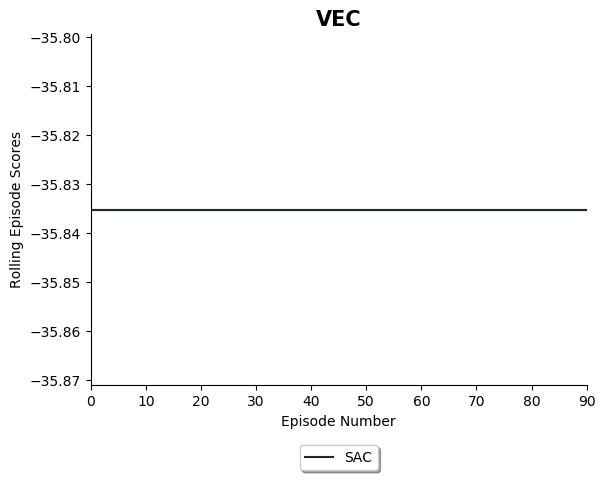
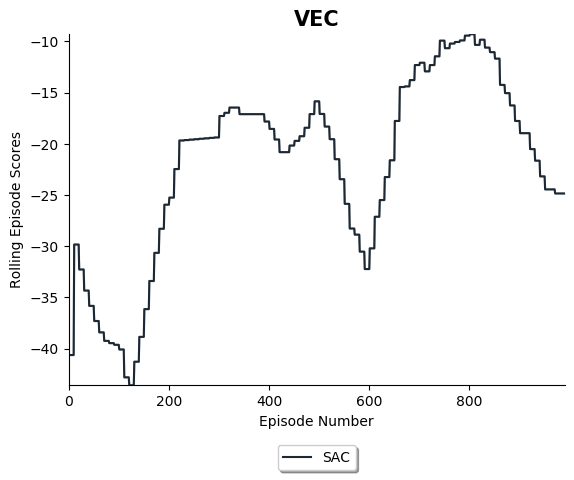
...

diff --git a/environments/VEC_Environment.py b/environments/VEC_Environment.py
@@ -26,10 +26,10 @@ class VEC_Environment(gym.Env):
         self.snr_ref = 1 # reference SNR, which is used to compute rate by B*log2(1+snr_ref*d^-a) 
         self.snr_alpha = 2
         self.vehicle_F = range(2,7)  #GHz
-        self.max_datasize = 2 #MBytes
-        self.max_compsize = 0.2 #GHz
-        self.max_tau = 5 # s
-        self.price = 0.1
+        self.max_datasize = 1 #MBytes
+        self.max_compsize = 0.1 #GHz
+        self.max_tau = 10 # s
+        self.price = 0
         self.max_price = np.log(1+self.max_tau)
 
         self.action_space = spaces.Discrete(self.num_vehicles*100)
@@ -65,6 +65,9 @@ class VEC_Environment(gym.Env):
         self.next_state = None
         self.reward = None
         self.done = False
+        for v in self.vehicles:
+            v["freq"] = v["freq_init"]
+            v["freq_remain"] = max(0, v["freq_init"] - sum([i["compute_size"]/i["max_t"] for i in v["tasks"]]))
         task = self.tasks[0]
         self.s = {
             "snr":np.array([min(self.snr_ref*(abs(v["position"])/200)**-2, 1) for v in self.vehicles]),
@@ -97,20 +100,20 @@ class VEC_Environment(gym.Env):
             return reward
         alpha_max = v["freq_remain"]/v["freq"]
         u_max = sum([np.log(1+alpha_max*i["max_t"]) for i in v["tasks"]])
-        alpha = fsolve(lambda a:sum([np.log(1+a*i["max_t"]) for i in v["tasks"]])-u_max+ cost -self.price*task[1],0.1)[0]
-        if alpha <=0:
-            return reward
+        alpha = fsolve(lambda a:sum([np.log(1+a*i["max_t"]) for i in v["tasks"]])-u_max+ cost -self.price*task[1], 0)[0]
+        alpha = min(max(0,alpha), alpha_max)
         freq_alloc = v["freq"]-(v["freq"]-v["freq_remain"])/(1-alpha)
+        # print(alpha_max,alpha,freq_alloc)
         if freq_alloc <= 0:
+            print("freq_alloc<=0",freq_alloc,v["freq"],v["freq_remain"],alpha)
             return reward
         snr = self.s["snr"][v_id]
         t_total = task[0]/(self.bandwidth*np.log2(1+snr)) + task[1]/freq_alloc
-        # print("computing time=",task[1]/freq_alloc,"freq_min=",task[1]/task[2])
+        # print("computing time=",task[1]/freq_alloc,"freq_min=",task[1]/task[2], "freq_alloc=",freq_alloc, "alpha=",alpha)
         if t_total <= task[2]:
             reward = np.log(1+task[2]-t_total) - cost
             v["freq"] -= freq_alloc
-            v["freq_remain"] = v["freq"] - sum([i["compute_size"]/i["max_t"] for i in v["tasks"]])
-            v["freq_remain"] = v["freq_remain"] if v["freq_remain"]>0 else 0
+            v["freq_remain"] = max(0, v["freq"] - sum([i["compute_size"]/i["max_t"] for i in v["tasks"]]))
             # print("t_total=",t_total,"reward=",reward)
         return reward
 
@@ -142,17 +145,15 @@ class VEC_Environment(gym.Env):
     def generate_local_tasks(self):
         for v in self.vehicles:
             v["tasks"] = []
-            for _ in range(random.randint(0,self.max_local_task)):
+            for _ in range(random.randint(1,self.max_local_task)):
                 data_size = random.uniform(self.max_datasize/5,self.max_datasize)
                 compute_size = random.uniform(self.max_compsize/5,self.max_compsize)
-                max_t = random.randint(1, self.max_tau)
+                max_t = random.randint(self.max_tau//2, self.max_tau)
                 v["tasks"].append({"data_size":data_size, "compute_size":compute_size, "max_t":max_t})
-            v["freq_remain"] = v["freq_init"] - sum([i["compute_size"]/i["max_t"] for i in v["tasks"]])
-            v["freq_remain"] = v["freq_remain"] if v["freq_remain"]>0 else 0
     
     def generate_offload_tasks(self):
         for _ in range(self.task_num_per_episode):
             data_size = random.uniform(self.max_datasize/5,self.max_datasize)
             compute_size = random.uniform(self.max_compsize/5,self.max_compsize)
-            max_t = random.randint(1, self.max_tau)
+            max_t = random.randint(self.max_tau//2, self.max_tau)
             self.tasks.append({"data_size":data_size, "compute_size":compute_size, "max_t":max_t})

diff --git a/VEC.py b/VEC.py
@@ -15,7 +15,7 @@ config.seed = 1
 
 config.environment = VEC_Environment(num_vehicles=50, task_num=20)
 
-config.num_episodes_to_run = 100
+config.num_episodes_to_run = 1000
 config.file_to_save_data_results = "results/data_and_graphs/VEC.pkl"
 config.file_to_save_results_graph = "results/data_and_graphs/VEC.png"
 config.show_solution_score = False

diff --git a/results/Mountain_Car.py b/results/Mountain_Car.py
@@ -25,7 +25,7 @@ config.visualise_individual_results = False
 config.visualise_overall_agent_results = True
 config.standard_deviation_results = 1.0
 config.runs_per_agent = 3
-config.use_GPU = False
+config.use_GPU = True
 config.overwrite_existing_results_file = False
 config.randomise_random_seed = True
 config.save_model = False
